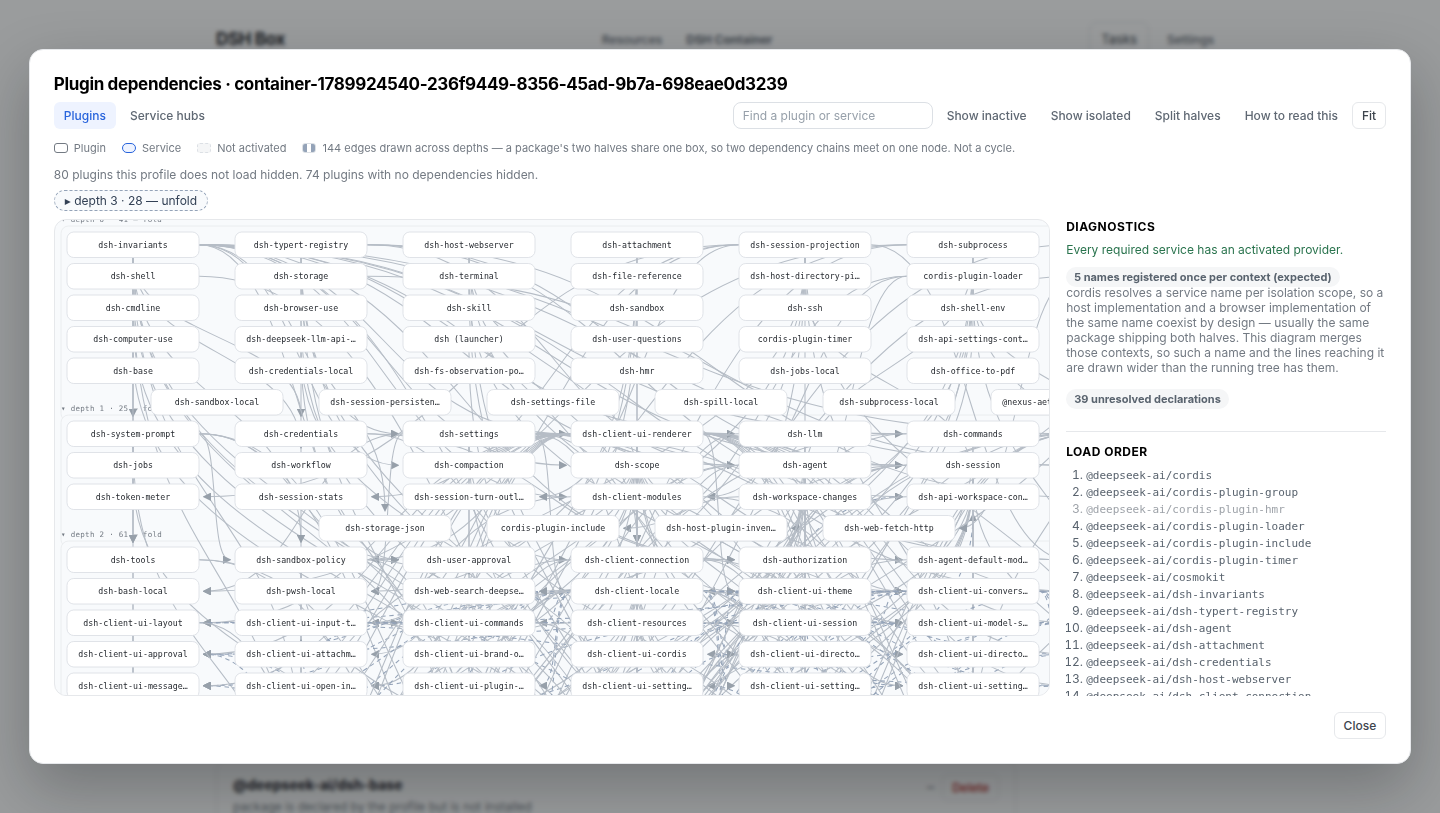
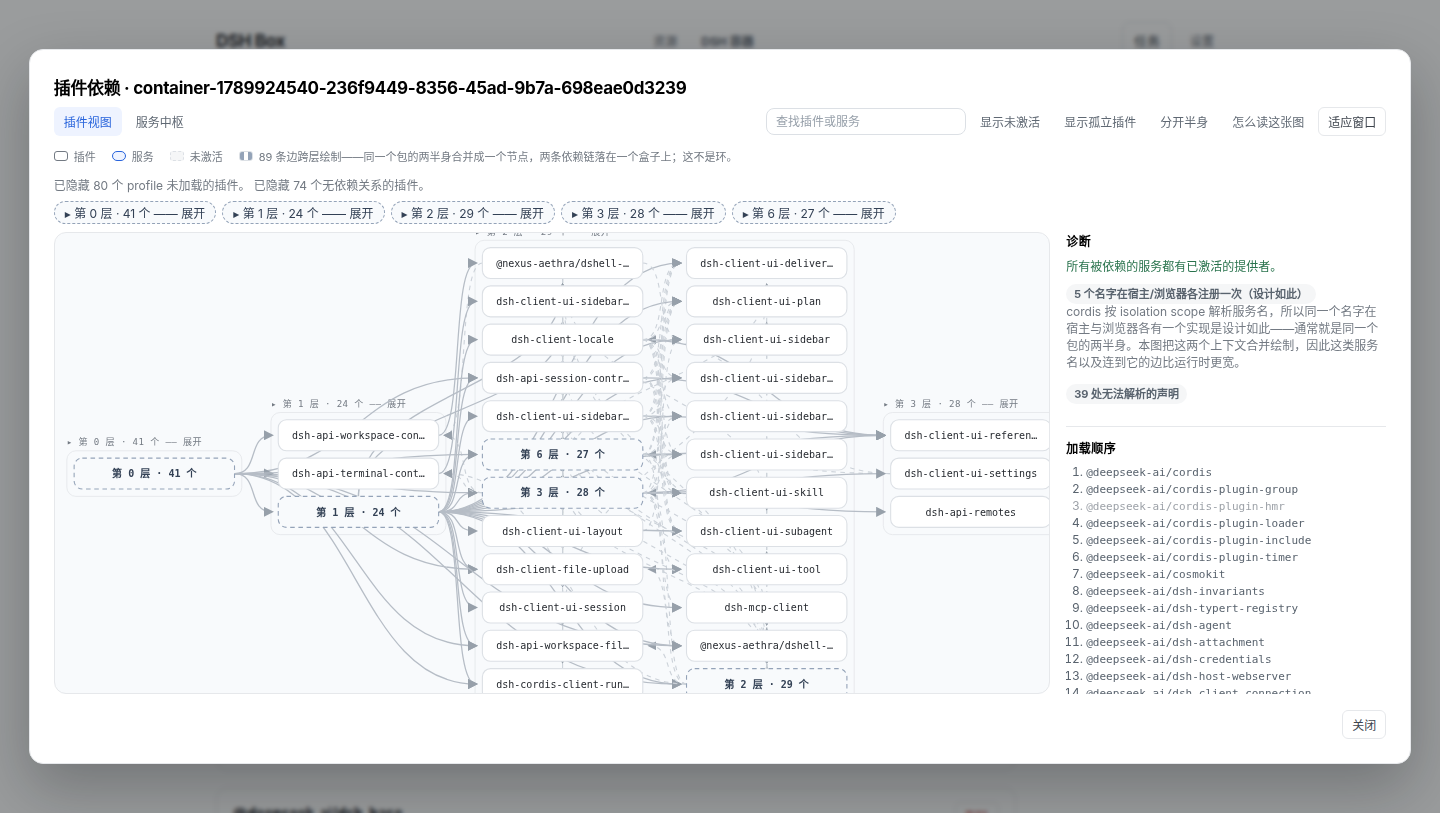
feat(graph): open with the wide depths folded
A dependency depth that cannot be drawn as one band is a depth the drawing has to
break into strips anyway, so it is folded when the graph opens: the same
container now reads as 31 boxes, five of them summaries, instead of 175 nodes and
462 edges. Any fold the reader makes themselves wins from then on.

Two things that follow from it. A folded depth's band label counts the depth, not
the one box standing in for it, and offers the way back — it used to say "1". And
an edge the drawing cannot lay out forwards is now lighter than a normal edge
rather than darker: with a depth or two folded these are most of the lines, so
they have to read as the background a real edge stands out from.

diff --git a/src/features/plugin-graph/PluginGraphPanel.tsx b/src/features/plugin-graph/PluginGraphPanel.tsx
@@ -6,7 +6,7 @@ import { Button } from '../../ui/Button'
 import { Dialog } from '../../ui/Dialog'
 import { Input } from '../../ui/Input'
 import type { LayoutEdge } from './layout'
-import { cyclicEdges, foldLayers, foldedNodeId, isFoldedNodeId, layoutGraph, MAX_LABEL_CHARS, NODE_HEIGHT, NODE_WIDTH } from './layout'
+import { cyclicEdges, foldLayers, foldedNodeId, isFoldedNodeId, layersWorthFolding, layoutGraph, MAX_LABEL_CHARS, NODE_HEIGHT, NODE_WIDTH } from './layout'
 import type { GraphNodeMeta } from './PluginGraphView'
 import { PluginGraphView } from './PluginGraphView'
 
@@ -127,9 +127,9 @@ export function PluginGraphPanel({ kind, id, text, onClose }: Props) {
   const [showIsolated, setShowIsolated] = useState(false)
   const [showInactive, setShowInactive] = useState(false)
   const [selected, setSelected] = useState<string | null>(null)
-  // Dependency depths the reader folded away. Layers are read one at a time,
-  // and the depth nobody is asking about is exactly the one worth hiding.
-  const [foldedLayers, setFoldedLayers] = useState<Set<number>>(() => new Set())
+  // The depths the reader folded. `null` means nobody has folded anything yet, so
+  // the default stands — see `foldedLayers` below for what that is.
+  const [ownFolds, setOwnFolds] = useState<Set<number> | null>(null)
   const [transform, setTransform] = useState({ scale: 1, x: 0, y: 0 })
   const [query, setQuery] = useState('')
   const [showHelp, setShowHelp] = useState(false)
@@ -451,6 +451,21 @@ export function PluginGraphPanel({ kind, id, text, onClose }: Props) {
     () => layoutGraph({ nodes, edges, order: graph?.order ?? [], weight, cyclic: cyclicKeys }),
     [nodes, edges, graph, weight, cyclicKeys],
   )
+  // A depth that cannot be drawn as one band is a depth worth summarising, so
+  // that is the default: the graph opens as an overview of the profile's levels
+  // instead of as a hairball. The moment the reader folds or unfolds anything,
+  // their choice is what stands.
+  const autoFolded = useMemo(() => new Set(layersWorthFolding(base)), [base])
+  const foldedLayers = ownFolds ?? autoFolded
+  const toggleLayer = (layer: number): void => {
+    setOwnFolds(() => {
+      const next = new Set(foldedLayers)
+      if (next.has(layer)) next.delete(layer)
+      else next.add(layer)
+      return next
+    })
+  }
+
   const layout = useMemo(() => {
     if (foldedLayers.size === 0) return base
     const layerOf = new Map(base.nodes.map((node) => [node.id, node.layer]))
@@ -465,15 +480,6 @@ export function PluginGraphPanel({ kind, id, text, onClose }: Props) {
       if (base.nodes.some((node) => node.id === id && node.layer === layer)) count += 1
     }
     return count
-  }
-
-  const toggleLayer = (layer: number): void => {
-    setFoldedLayers((current) => {
-      const next = new Set(current)
-      if (next.has(layer)) next.delete(layer)
-      else next.add(layer)
-      return next
-    })
   }
 
   /** How many boxes a folded layer is standing in for. */
@@ -938,11 +944,12 @@ export function PluginGraphPanel({ kind, id, text, onClose }: Props) {
                   selected={selected}
                   onSelect={selectUnlessDragged}
                   showEdgeLabels={layout.edges.length <= EDGE_LABEL_LIMIT}
-                  layerLabel={text.pluginGraphLayerLabel}
-                  foldedLayers={foldedLayers}
+                  /* A folded depth's band holds one summary box, so the count
+                     has to come from the depth itself — `41 个`, not the one box
+                     standing in for it — and the label has to offer the way
+                     back. */
+                  layerLabel={(layer, count) => (foldedLayers.has(layer) ? text.pluginGraphUnfold : text.pluginGraphFold)(layer, foldedCounts.get(layer) ?? count)}
                   onToggleLayer={toggleLayer}
-                  foldLabel={text.pluginGraphFold}
-                  unfoldLabel={text.pluginGraphUnfold}
                   matches={search?.matched ?? null}
                   canvasLabel={text.pluginGraphCanvas}
                   emptyLabel={text.pluginGraphEmpty}

diff --git a/src/features/plugin-graph/PluginGraphView.tsx b/src/features/plugin-graph/PluginGraphView.tsx
@@ -23,14 +23,12 @@ type Props = {
   // Nodes the search box matched, outlined rather than isolated so the hit keeps
   // the surrounding graph as context.
   matches: Set<string> | null
-  // Labels for the dependency depths, drawn beside each band.
+  // Labels for the dependency depths, drawn beside each band. The caller words
+  // them — a band's label is also the control that folds its depth away.
   layerLabel: (layer: number, count: number) => string
-  // Folding: a band's label folds that layer away, and a folded summary node
-  // unfolds it again. Both are one action on one layer, so they share a callback.
-  foldedLayers: Set<number>
+  // Folding a depth is one action on one layer, from the band label and from the
+  // summary box it leaves behind.
   onToggleLayer: (layer: number) => void
-  foldLabel: (layer: number, count: number) => string
-  unfoldLabel: (layer: number, count: number) => string
   // Accessible name for the diagram, and the message shown when it is empty.
   canvasLabel: string
   emptyLabel: string
@@ -94,7 +92,7 @@ function edgeMidpoint(edge: PlacedEdge, from: Box, to: Box): { x: number; y: num
   }
 }
 
-export function PluginGraphView({ layout, meta, selected, onSelect, showEdgeLabels, matches, layerLabel, foldedLayers, onToggleLayer, foldLabel, unfoldLabel, canvasLabel, emptyLabel }: Props) {
+export function PluginGraphView({ layout, meta, selected, onSelect, showEdgeLabels, matches, layerLabel, onToggleLayer, canvasLabel, emptyLabel }: Props) {
   if (layout.nodes.length === 0) {
     return <p className="plugin-graph-empty">{emptyLabel}</p>
   }
@@ -171,7 +169,7 @@ export function PluginGraphView({ layout, meta, selected, onSelect, showEdgeLabe
                   }
                 }}
               >
-                {foldLabel(group.layer, group.count)}
+                {layerLabel(group.layer, group.count)}
               </text>
             </g>
           ))}

diff --git a/src/styles.css b/src/styles.css
@@ -398,8 +398,11 @@ code.missing { color: #b42318; }
 /* A folded depth: one box standing for a whole layer. Dashed, because it is a
    summary and not a plugin, and clickable, because that is how it comes back. */
 /* An edge the drawing cannot lay out forwards — two halves merged onto one node
-   put two dependency chains there. Not a cycle, so not red: dashed and quiet. */
-.plugin-graph-edge.crosses { stroke-dasharray: 6 5; stroke: #94a3b8; }
+   put two dependency chains there. Not a cycle, so not red, and not darker than a
+   normal edge either: once a depth or two is folded these are most of the lines,
+   so they have to read as the quiet background a normal edge stands out from. */
+.plugin-graph-edge.crosses { stroke: #ccd2d9; stroke-width: 1.2; stroke-dasharray: 5 5; }
+.plugin-graph-edges .edge.touched .plugin-graph-edge.crosses { stroke: var(--color-primary); stroke-width: 2; }
 .swatch.mark-crosses { background: repeating-linear-gradient(90deg, #94a3b8 0 4px, transparent 4px 8px); }
 .plugin-graph-node.layer rect { fill: #f8fafc; stroke: #94a3b8; stroke-dasharray: 5 4; }
 .plugin-graph-node.layer text { fill: #334155; font-weight: 600; }

diff --git a/src/features/plugin-graph/layout.ts b/src/features/plugin-graph/layout.ts
@@ -493,6 +493,22 @@ export function layoutGraph(input: LayoutInput): Layout {
   }
 }
 
+/**
+ * The depths a reader sees as a crowd: more nodes than one band can hold, so the
+ * drawing already has to break them into strips. The panel folds these on open,
+ * so the first thing seen is a summary — a depth at a time is how a profile this
+ * size is read — and one click on the summary brings a depth back.
+ */
+export function layersWorthFolding(layout: Layout): Set<number> {
+  const counts = new Map<number, number>()
+  for (const node of layout.nodes) counts.set(node.layer, (counts.get(node.layer) ?? 0) + 1)
+  const folded = new Set<number>()
+  for (const [layer, count] of counts) {
+    if (count > MAX_ROWS) folded.add(layer)
+  }
+  return folded
+}
+
 // ── folding a layer away ──────────────────────────────────────────────────
 //
 // A profile this size is read one dependency depth at a time, and the depth a

diff --git a/README.md b/README.md
@@ -166,7 +166,7 @@ What it computes:
 - **A node per mounted plugin, not per package.** A package that ships both a host and a browser half (`dsh.client` + `exports["./client"]`) becomes two nodes, so `inject`/`provide` resolve inside one context. A name provided once per context is a shared service, not a conflict — which also means a cycle is either inside one context or it is real.
 - **Only registered declarations count.** An `inject` is read where a plugin registers it: an `Object.assign(target, { inject })` carrier, or a factory's returned `{ inject, apply }`. A plain object property is not a plugin declaration; treating one as such invented 26 requirements on a real profile.
 - **The launcher is a provider too.** `apps/cli` builds the root context and hands services to the plugins it mounts, so it is scanned and drawn as `dsh (launcher)` — without it, every plugin that injects `profileContext` reads as waiting on nobody.
-- **Depth bands, load order, and folding.** A node's depth is one more than the deepest dependency it injects (0 = has nothing to wait for), and within a band nodes are ordered by how many plugins depend on them. A band's label **folds that depth** into one summary box; the layer's edges re-point at it, the rest of the diagram reflows, and the folded depth stays as a chip above the canvas. A cycle does not hide the order: the nodes still inside it are marked pending.
+- **Depth bands, load order, and folding.** A node's depth is one more than the deepest dependency it injects (0 = has nothing to wait for), and within a band nodes are ordered by how many plugins depend on them. A depth too big for one band is **folded on open** — a 175-node container reads as 31 boxes — and a band's label or its summary box folds and unfolds it: the layer's edges re-point at the summary, the rest of the diagram reflows, and the folded depth stays as a chip above the canvas. A cycle does not hide the order: the nodes still inside it are marked pending.
 - **A cycle is a graph fact; a crossing is a drawing fact.** Red dashed means "on a cycle, this cannot load", decided on the half-preserving links and inside one context. An edge the drawing merely cannot lay out forwards — the default view merges a package's two halves into one box, so `host A → B` sits beside `browser B → A` — is a quiet grey dash with a legend line saying so. Splitting the halves leaves zero crossings, which is the check that the layering is right.
 - **What a working container contradicts is a bug in the scanner.** An incomplete static view must not claim a service is missing, a provider is inactive, or two registrations in different contexts conflict; the launcher, the halves of a package, and the isolation scopes each took one of those false alarms out.
 - **Bundles are followed.** A bundle's `cordis.patch.yml` `insert` rows are read, so the plugins a bundle mounts appear as the nodes they are — including the ones a Boxfile `ADD`s, which is what makes a template preview show its own plugins before any container exists.

diff --git a/README.zh-CN.md b/README.zh-CN.md
@@ -156,7 +156,7 @@ ADD skill team-conventions
 - **一个挂载的插件一个节点，而不是一个包一个节点。** 同时提供宿主半身与浏览器半身的包（`dsh.client` + `exports["./client"]`）会拆成两个节点，这样 `inject`/`provide` 在同一个上下文里解析。同名服务在每个上下文各注册一次是共享服务而非冲突——这也意味着「有环」要么在一个上下文内、要么根本不存在。
 - **只认已注册的声明。** `inject` 只在插件真正注册它的位置读取：`Object.assign(target, { inject })` 载体，或工厂返回的 `{ inject, apply }`。普通对象属性不是插件声明——把它当声明会在真实 profile 上凭空造出 26 条需求。
 - **启动器也是提供者。** `apps/cli` 构建根上下文并把服务交给它挂载的插件，所以它被扫描并绘制为 `dsh (launcher)`；没有它，每个注入 `profileContext` 的插件看起来都在等一个不存在的人。
-- **深度分层、加载顺序、以及折叠。** 节点深度 = 它注入的最深依赖 + 1（0 表示无需等待），层内按被依赖数排序。层带标签可以**把该层折叠**成一个汇总节点：该层的边改指到它、其余重新排布，被折叠的层留在画布上方当一个可展开的 chip。有环也不会掩盖顺序：仍在环里的节点标记为挂起。
+- **深度分层、加载顺序、以及折叠。** 节点深度 = 它注入的最深依赖 + 1（0 表示无需等待），层内按被依赖数排序。一层装不下的深度**默认就是折叠的**——175 个节点的容器打开是 31 个盒子——点层带标签或汇总节点即可展开/折叠：该层的边改指到汇总节点、其余重新排布，被折叠的层留在画布上方当一个可展开的 chip。有环也不会掩盖顺序：仍在环里的节点标记为挂起。
 - **会跟随 bundle。** bundle 的 `cordis.patch.yml` `insert` 行会被读取，因此 bundle 挂载的插件就是它们应有的节点——包括 boxfile `ADD` 的那些，这也是模板预览在还没有容器时就能显示自己插件的原因。
 - **环是图的属性，跨层是绘制的属性。** 红色虚线只表示「在环上，这会卡住」，判定基于保留半身的 links 且只算同一上下文。仅仅因为默认视图把同一个包的两半身合并成一个盒子、导致 `host A → B` 与 `browser B → A` 画成回环的边，是安静的灰色虚线，并在图例里写明。把半身分开后跨层线归零——这正是分层本身正确的检验。
 - **与可用容器矛盾的结论，算扫描器的 bug。** 不完整的静态视图不该声称某服务缺失、某提供者未激活、或不同上下文里的两次注册是冲突；启动器、包的两半身、isolation scope 各自消掉了其中一类误报。

diff --git a/CHANGELOG.md b/CHANGELOG.md
@@ -77,6 +77,11 @@ builds from ever showing it.
 
 ### Added
 
+- **The dependency graph opens folded.** A depth bigger than one band is a depth
+  the drawing already has to break into strips, so those are folded on open: a
+  175-node container shows as 31 boxes with five of them summaries (`第 3 层 · 28
+  个`), and one click on a summary or a band label brings a depth back. A folded
+  depth's band label counts the depth itself, not the one box standing in for it.
 - **Fold a dependency depth away.** A band's label folds that layer into one
   summary box (`第 3 层 · 28 个`), the layer's edges re-point at it, and the rest
   of the diagram reflows — so a 175-node graph is read one depth at a time. The
